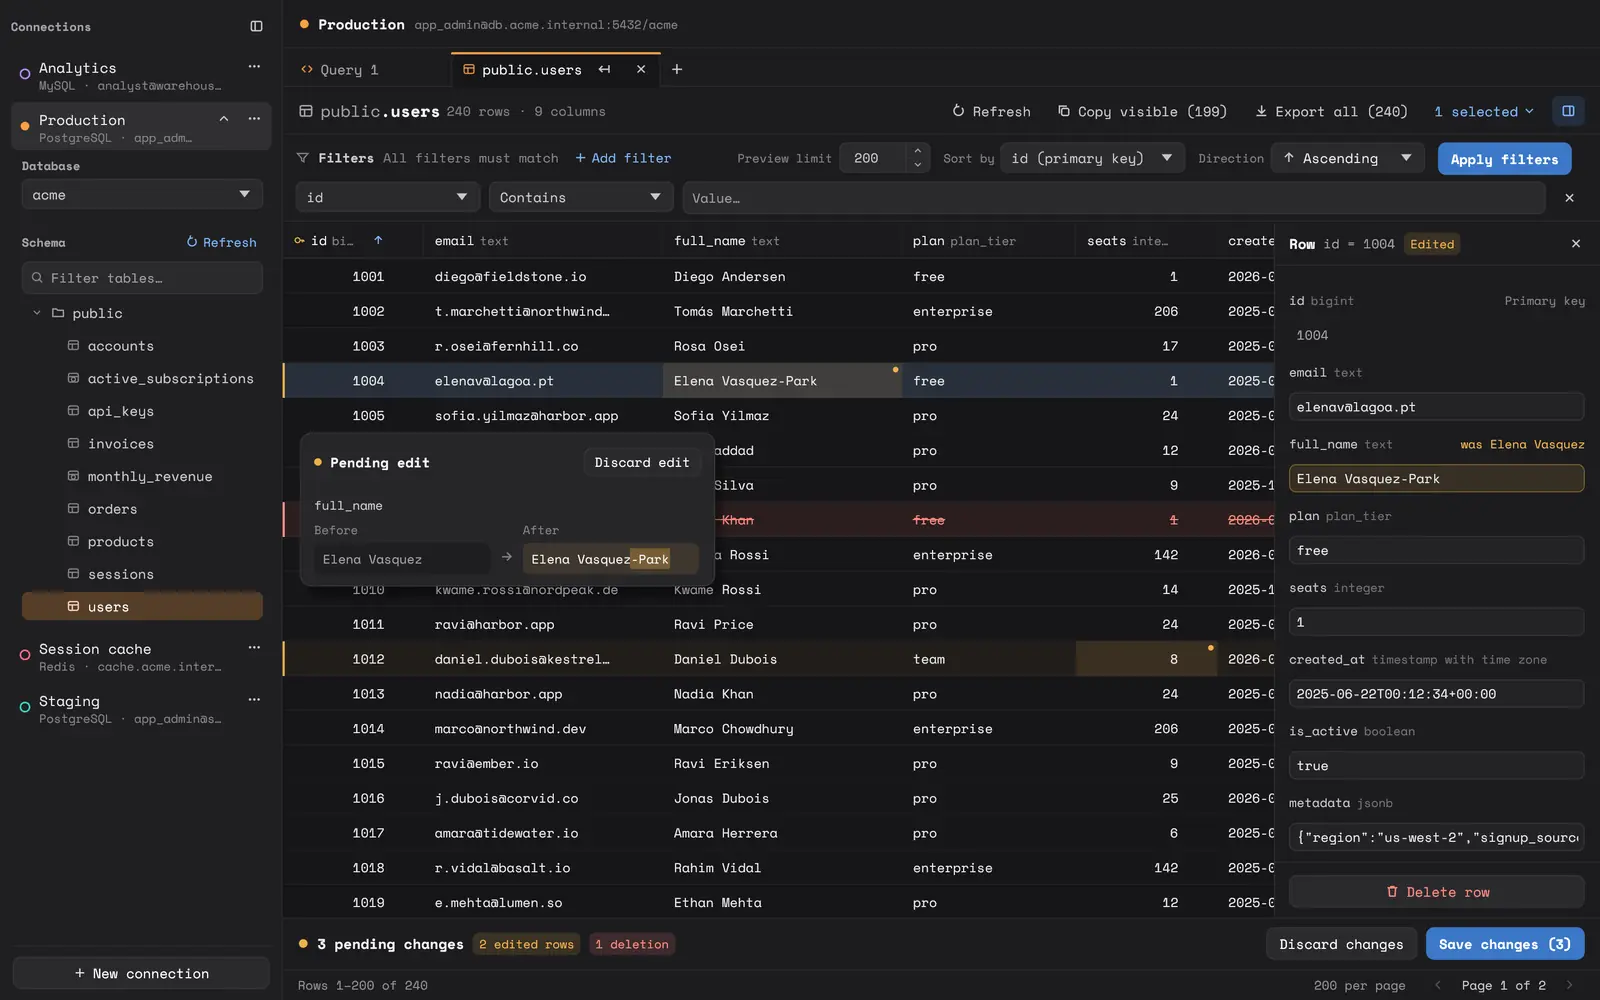
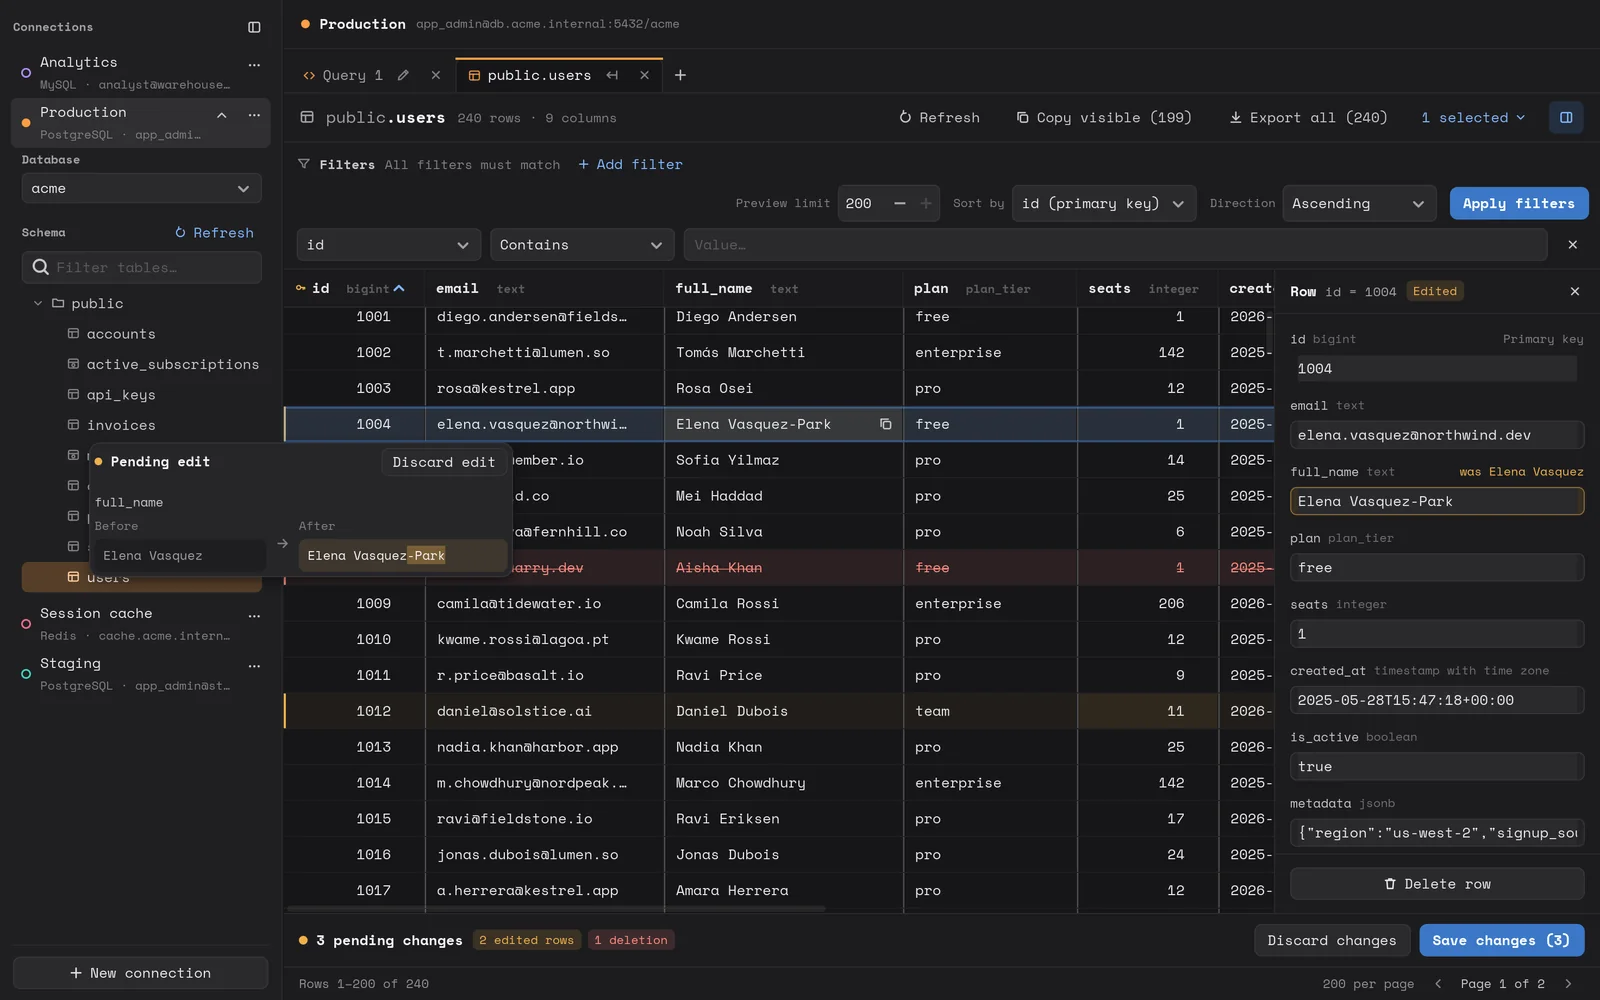
Retake README and website screenshots from the GTK Linux app
Amp-Thread-ID: https://ampcode.com/threads/T-01a1cce2-9d8a-7127-b3c2-ca37a7d104db

diff --git a/docs/development.md b/docs/development.md
@@ -230,10 +230,15 @@ in [the rename plan](anybase-migration.md#website).
 
 ## Screenshots
 
-The README screenshots in `docs/screenshots/` show the egui app
+The README screenshots in `docs/screenshots/` show the GTK Linux app
 connected to real local PostgreSQL, MySQL, and Redis servers loaded with sample
 data, captured at 2× in a 1472×920-point window (2944×1840 pixels). The
 connection dialog needs that height to fit without scrolling.
+
+On a machine without a desktop, run the app with `GDK_SCALE=2` on an Xvfb
+screen of 2944×1840 with a compositor such as `xcompmgr` (without one, popovers
+such as the change preview draw on a black box), size its window to the whole
+screen, and capture with `import -window root`.
 
 The AppKit app can also render the demo fixture's main states to PNG files
 without interaction:
